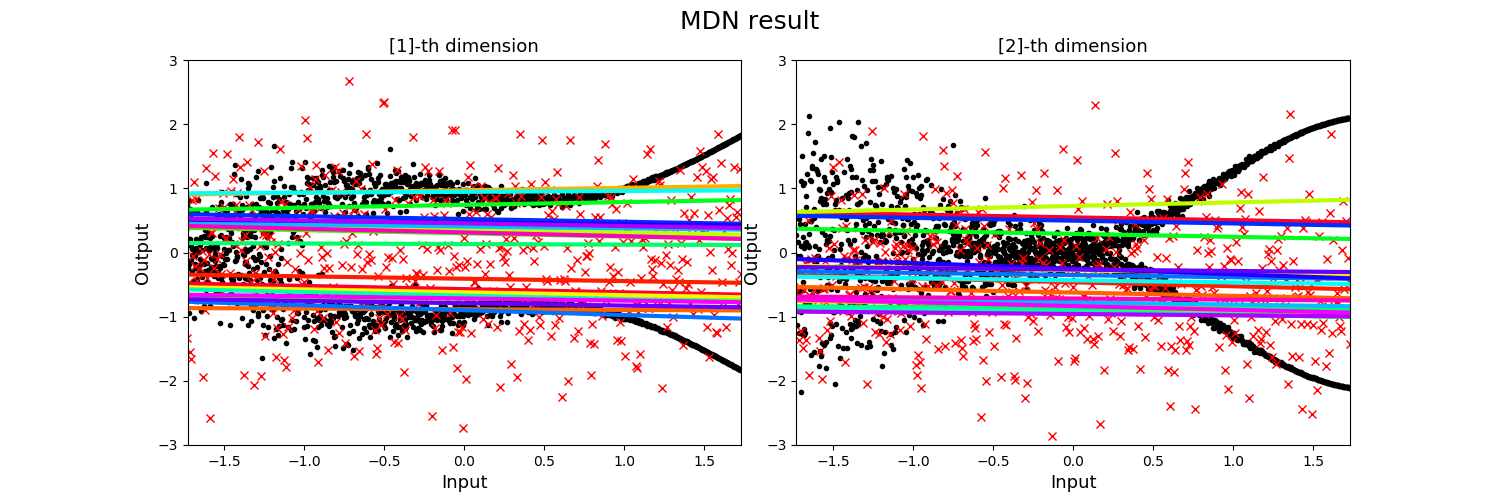
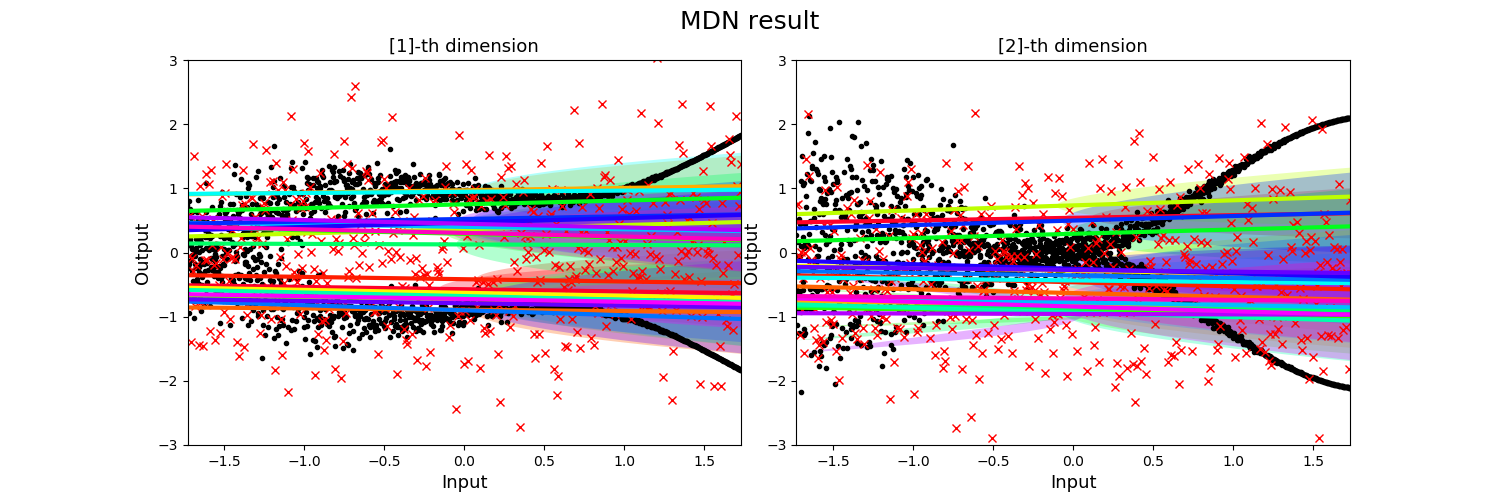
edit

diff --git a/subclass_model.py b/subclass_model.py
@@ -107,7 +107,7 @@ class MDN_reg_class(Model):
         tfd_mog=self.call(x_train)
         log_liks=tfd_mog.log_prob(y_true)
         log_lik=K.mean(log_liks)
-        return -log_lik
+        return -log_lik*100
 
     # # Plot results
     def plot_result(self, _x_test,epoch, _title='MDN result', _fontsize=18,
@@ -137,16 +137,15 @@ class MDN_reg_class(Model):
             if _x_train is not None:
                 plt.plot(_x_train[:, 0], _y_train[:, i], 'k.')
             plt.plot(_x_test[:, 0], y_sample[:, i], 'rx')  # plot samples per each dimension
-            # for j in range(self.k):  # per each mixture, plot variance
-            #     idx = np.where(phi[:, j] < _pi_th)[0]
-            #
-            #     plt.fill_between(_x_test[idx, 0], mu[idx, i, j] - 2 * np.sqrt(var[idx, i, j]),
-            #                      mu[idx, i, j] + 2 * np.sqrt(var[idx, i, j]),
-            #                      facecolor='k', interpolate=True, alpha=0.05)
-            #     idx = np.where(phi[:, j] > _pi_th)[0]
-            #     plt.fill_between(_x_test[idx, 0], mu[idx, i, j] - 2 * np.sqrt(var[idx, i, j]),
-            #                      mu[idx, i, j] + 2 * np.sqrt(var[idx, i, j]),
-            #                      facecolor=colors[j], interpolate=True, alpha=0.3)
+            for j in range(self.k):  # per each mixture, plot variance
+                idx = np.where(phi[:, j] < _pi_th)[0]
+                plt.fill_between(_x_test[idx, 0], mu[idx, i, j] - 2 * np.sqrt(var[idx, i, j]),
+                             mu[idx, i, j] + 2 * np.sqrt(var[idx, i, j]),
+                             facecolor='k', interpolate=True, alpha=0.05)
+                idx = np.where(phi[:, j] > _pi_th)[0]
+                plt.fill_between(_x_test[idx, 0], mu[idx, i, j] - 2 * np.sqrt(var[idx, i, j]),
+                             mu[idx, i, j] + 2 * np.sqrt(var[idx, i, j]),
+                             facecolor=colors[j], interpolate=True, alpha=0.3)
             for j in range(self.k):  # per each mixture, plot mu
                 idx = np.where(phi[:, j] > _pi_th)[0]
                 plt.plot(_x_test[:, 0], mu[:, i, j], '-', color=[0.8, 0.8, 0.8], linewidth=1)
